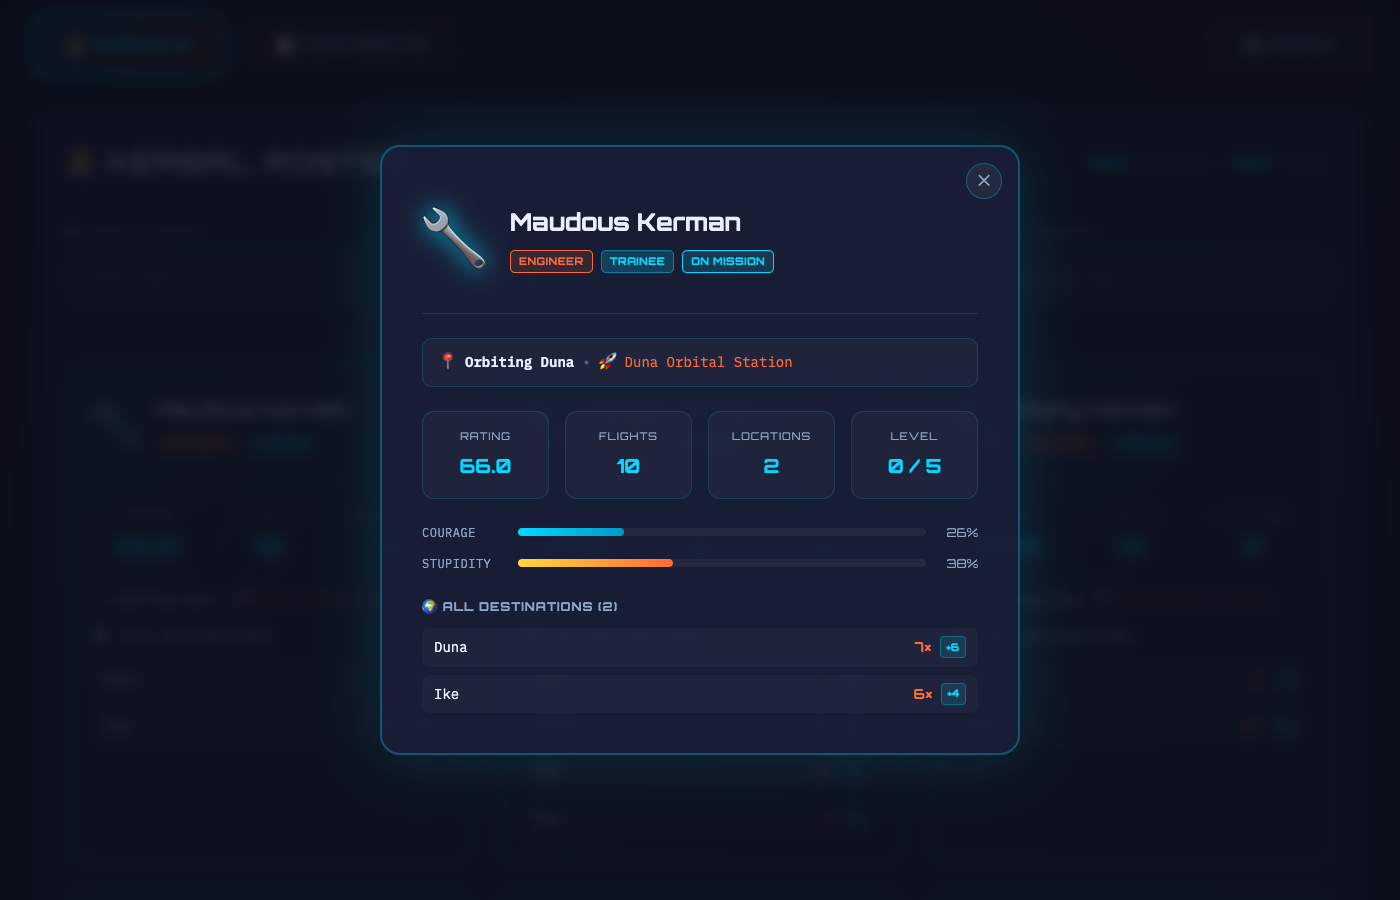
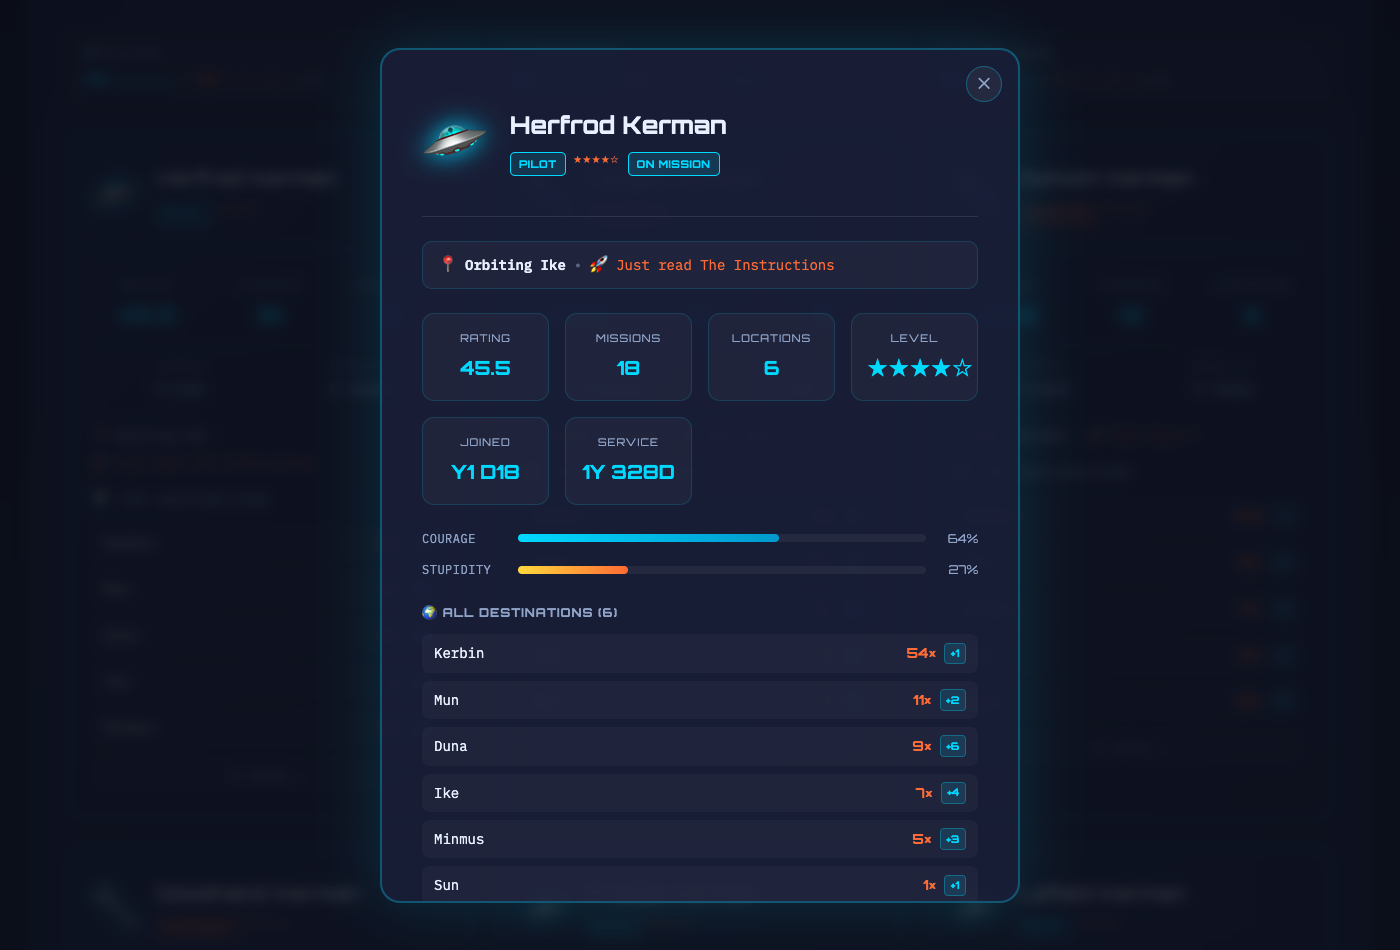
Update screenshots and README for v1.1 features
New screenshots show corps summary bar, star ratings, join date and
service duration. README features list updated to match.

diff --git a/README.md b/README.md
@@ -10,7 +10,8 @@ A desktop application for analysing and visualising Kerbal Space Program save-fi
 
 ## Features
 
-- **Kerbal Roster** — flights completed, current location, vessel assignment, synthetic experience rating, and full visit history per body
+- **Kerbal Roster** — star rating (computed from KSP XP), trait badges, missions, locations, join date and service duration per kerbal
+- **Corps Summary** — at-a-glance Pilot / Engineer / Scientist counts split by Assigned vs Available
 - **Contracts Dashboard** — visual progression timeline: cumulative earnings, contracts per period, earnings per period, prestige breakdown, and top destinations
 - **Contract Drill-down** — click any contract type to see its own filtered dashboard; TourismContract shows passenger counts instead of funds
 - **Incremental Parsing** — MD5-based cache avoids re-parsing an unchanged save file; force-refresh available
@@ -22,9 +23,13 @@ A desktop application for analysing and visualising Kerbal Space Program save-fi
 
 ## Screenshots
 
-**Kerbal Roster** — browse and search your crew with rating, location, and vessel info at a glance
+**Kerbal Roster** — corps summary bar (Pilots / Engineers / Scientists assigned vs available) and crew cards with star rating, missions, service duration, and top destinations
 
 ![Kerbal Roster](screenshots/kerbals.png)
+
+**Kerbal Detail** — full profile with star level, join date, service time, courage/stupidity bars, and every body visited
+
+![Kerbal Detail](screenshots/kerbal-detail.png)
 
 **Contract Statistics** — mission summary tiles, cumulative earnings curve, and per-period activity bars
 
@@ -33,10 +38,6 @@ A desktop application for analysing and visualising Kerbal Space Program save-fi
 **Contract Drill-down** — click any contract type to open a detailed modal with its own charts and top destinations
 
 ![Contract Drill-down](screenshots/contract-detail.png)
-
-**Kerbal Detail** — full profile: courage/stupidity bars, experience level, and every body visited
-
-![Kerbal Detail](screenshots/kerbal-detail.png)
 
 ---
 
